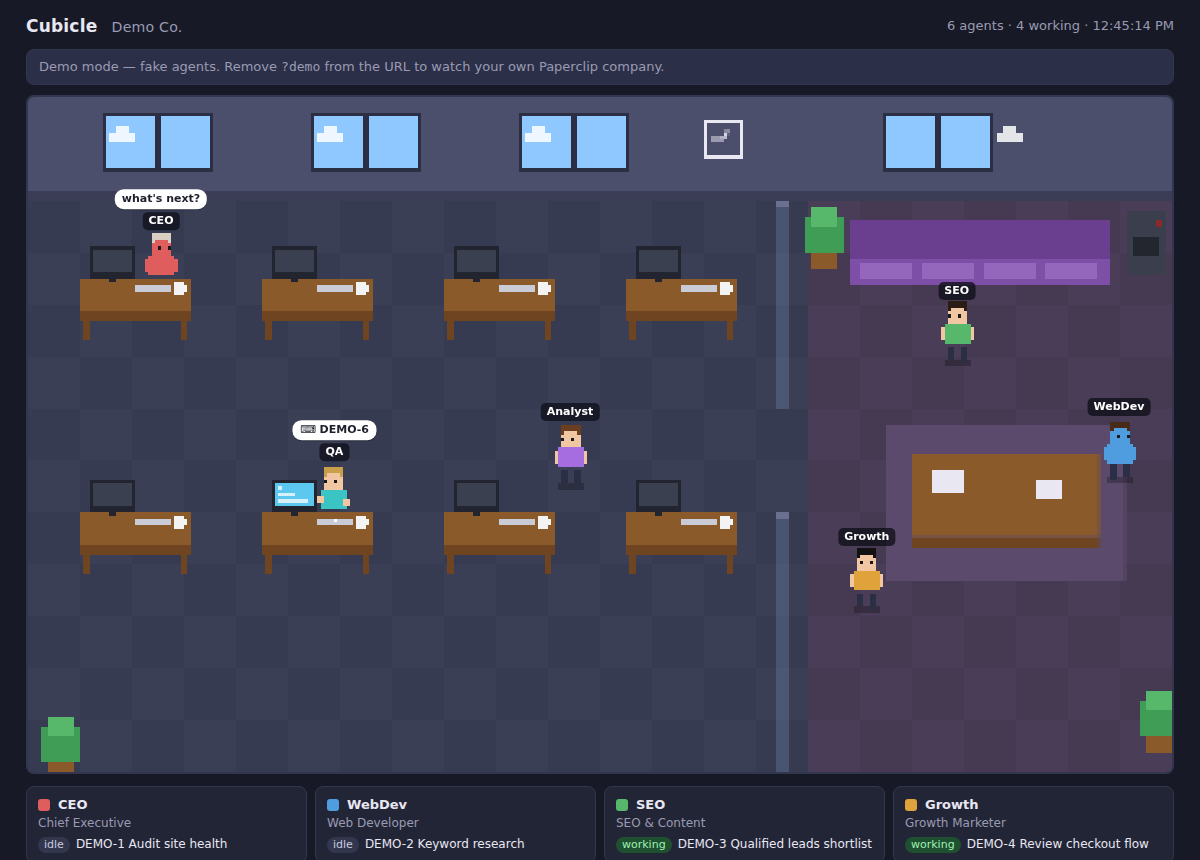
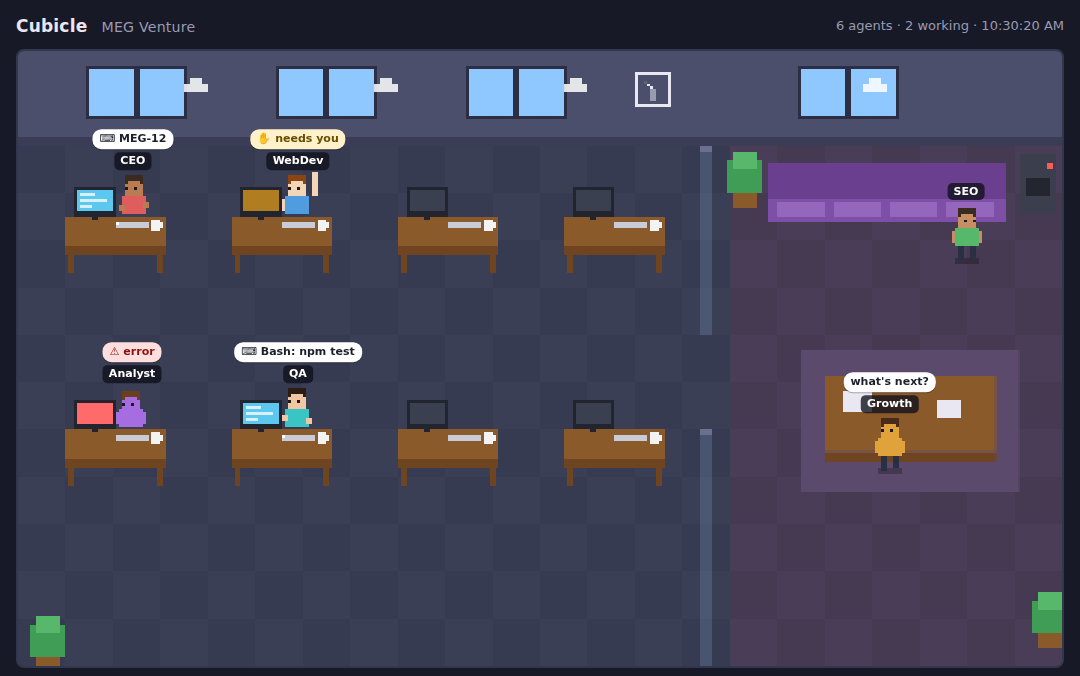
New demo GIF; keep speech bubbles from overlapping
- docs/demo.gif and docs/screenshot.png re-recorded: working, needs-you
  (hand up), done and error all appear within 15 seconds.
- Bubbles are capped at the gap between neighbouring desks, so long task
  names on adjacent desks no longer overlap.
- scripts/record-demo.py: deterministic frame capture (frozen Playwright
  clock + scripted feed) for the GIF and social videos.

Claude-Session: https://claude.ai/code/session_016sPThF3MAmmJcz4KJFJ8Pn

diff --git a/public/index.html b/public/index.html
@@ -472,10 +472,13 @@
 
   function placeLabels(now) {
     const k = cv.clientWidth / CW;
+    // Keep bubbles narrower than the gap between neighbouring desks so they never overlap.
+    const bubMax = Math.max(80, Math.floor(3.3 * T * k - 6)) + 'px';
     for (const s of sprites.values()) {
       s.el.style.left = (s.x * k) + 'px';
       s.el.style.top = ((s.y - 20) * k) + 'px';
       const b = s.el.querySelector('.bub');
+      b.style.maxWidth = bubMax;
       let text = null, cls = '';
       if (s.bubble && now < s.bubbleUntil) { text = s.bubble; cls = s.bubbleClass; }
       else if (s.status === 'error' && s.seated) { text = L.errBubble; cls = 'err'; }

diff --git a/scripts/record-demo.py b/scripts/record-demo.py
@@ -1,0 +1,118 @@
+"""Deterministic frame capture of Cubicle for the demo GIF and the LinkedIn video.
+
+A fake clock drives the page, so every frame is exact and lossless, and a scripted
+feed makes every state (working, needs-you, done, error) appear within 15 seconds.
+"""
+import json, os, sys, datetime
+from playwright.sync_api import sync_playwright
+
+BASE = sys.argv[1]            # http://127.0.0.1:PORT
+OUT = sys.argv[2]             # frames dir
+W, H = int(sys.argv[3]), int(sys.argv[4])
+PROMO = sys.argv[5] == 'promo'
+FPS = 25
+STEP = 1000 // FPS            # 40 ms
+WARMUP = 10.5                 # seconds of virtual time before the first frame
+LENGTH = 15.0                 # seconds recorded
+
+os.makedirs(OUT, exist_ok=True)
+
+ROSTER = [
+    ('ceo', 'CEO', 'Chief Executive'),
+    ('web', 'WebDev', 'Web Developer'),
+    ('seo', 'SEO', 'SEO & Content'),
+    ('growth', 'Growth', 'Growth Marketer'),
+    ('analyst', 'Analyst', 'Functional Analyst'),
+    ('qa', 'QA', 'QA & Testing'),
+]
+
+def state(t):
+    """Agent states at virtual time t (seconds)."""
+    s = {
+        'ceo': ('running', {'id': 'MEG-12', 'title': 'Plan Q4 campaign'}),
+        'web': ('running', 'Edit checkout.php'),
+        'seo': ('running', 'Keyword research: winter'),
+        'growth': ('idle', None),
+        'analyst': ('running', 'Read orders.csv'),
+        'qa': ('idle', None),
+    }
+    err = {}
+    if t >= 12:
+        s['qa'] = ('running', 'Bash: npm test')
+        s['seo'] = ('idle', None)
+    if t >= 16: s['web'] = ('waiting', 'allow Bash: git push?')
+    if t >= 20:
+        s['analyst'] = ('error', None); err['analyst'] = 'API rate limit (429)'
+    if t >= 24:
+        s['web'] = ('running', 'Bash: git push origin main')
+        s['growth'] = ('running', 'Draft newsletter')
+    agents = []
+    for i, (aid, name, role) in enumerate(ROSTER):
+        st, task = s[aid]
+        a = {'id': aid, 'name': name, 'role': role, 'status': st, 'since': i}
+        if task: a['task'] = task
+        if aid in err: a['error'] = err[aid]
+        agents.append(a)
+    return {'company': 'MEG Venture', 'agents': agents}
+
+vt = 0.0  # virtual seconds, updated before each clock step
+
+def on_feed(route):
+    poll_t = (int(vt * 1000) // 4000) * 4
+    route.fulfill(status=200, content_type='application/json', body=json.dumps(state(poll_t)))
+
+PROMO_CSS = """
+  body { font-size: 15px; padding-top: 92px; }
+  .wrap { max-width: none; padding: 0 16px 0; }
+  .wrap { margin: 0; width: 100%; }
+  #promo-top { padding: 0 16px 26px; }
+  #promo-top h2 { margin: 0; font: 700 58px/1.05 system-ui, sans-serif; color: #fff; letter-spacing: -1px; }
+  #promo-top p { margin: 14px 0 0; font: 400 28px/1.3 system-ui, sans-serif; color: #b9bad0; }
+  #promo-bottom { padding: 30px 0 0; display: flex; flex-direction: column; gap: 12px; }
+  #promo-bottom code { font: 600 30px/1.2 "DejaVu Sans Mono", monospace; color: #9ff0b4; background: #0f1119; border: 1px solid #33374d; border-radius: 10px; padding: 12px 16px; align-self: flex-start; }
+  #promo-bottom span { font: 400 22px/1.3 system-ui, sans-serif; color: #9a9bb3; }
+  footer, #banner { display: none !important; }
+  .card { padding: 11px 13px; }
+  .card b { font-size: 16px; } .card .role, .card .st { font-size: 14px; }
+  .bub { font-size: 13px; } .name { font-size: 13px; }
+  h1 { font-size: 20px; } h1 small, #status { font-size: 15px; }
+"""
+
+with sync_playwright() as p:
+    browser = p.chromium.launch()
+    ctx = browser.new_context(viewport={'width': W, 'height': H}, device_scale_factor=1,
+                              timezone_id='Europe/Istanbul', locale='en-US')
+    T0 = datetime.datetime(2026, 9, 28, 10, 30, 0, tzinfo=datetime.timezone(datetime.timedelta(hours=3)))
+    ctx.clock.install(time=T0)
+    ctx.clock.pause_at(T0 + datetime.timedelta(milliseconds=1))  # no natural time flow: frames advance only via run_for
+    page = ctx.new_page()
+    page.route('**/api/feed', on_feed)
+    page.goto(f'{BASE}/?lang=en')
+    page.wait_for_timeout(400)            # real time: config.json + first poll resolve
+    if PROMO:
+        page.add_style_tag(content=PROMO_CSS)
+        page.evaluate("""() => {
+          const top = document.createElement('div'); top.id = 'promo-top';
+          top.innerHTML = '<h2>Cubicle</h2><p>A live pixel-art office for your AI agents.<br>Claude Code, Paperclip, or any JSON feed.</p>';
+          document.body.prepend(top);
+          const bot = document.createElement('div'); bot.id = 'promo-bottom';
+          bot.innerHTML = '<code>npx @caglarutkuguler/cubicle</code><span>Open source (MIT) · zero dependencies · read-only</span>';
+          document.querySelector('.wrap').appendChild(bot);
+          const h1 = document.querySelector('h1'); if (h1 && h1.firstChild) h1.firstChild.textContent = '';
+        }""")
+
+    total = int((WARMUP + LENGTH) * 1000 / STEP)
+    first = int(WARMUP * 1000 / STEP)
+    n = 0
+    for i in range(total):
+        before = vt
+        vt = (i + 1) * STEP / 1000
+        page.clock.run_for(STEP)
+        if int(before * 1000) // 4000 != int(vt * 1000) // 4000:
+            page.wait_for_timeout(80)     # let the poll's fetch resolve
+            page.clock.run_for(0)
+        if i >= first:
+            page.screenshot(path=f'{OUT}/f{n:04d}.png')
+            n += 1
+    print('frames', n, 'last vt', vt)
+    browser.close()

diff --git a/scripts/README.md b/scripts/README.md
@@ -1,0 +1,15 @@
+# Demo recording
+
+`record-demo.py` renders the demo GIF in `docs/` and the square/portrait promo video from a scripted feed, frame by frame under a frozen Playwright clock, so every frame is exact and every state (working, needs-you, done, error) appears within 15 seconds.
+
+```bash
+pip install playwright && python -m playwright install chromium   # once
+node bin/cubicle.js --port 3399 --source examples/feed.json &      # any feed source; /api/feed is intercepted
+python scripts/record-demo.py http://127.0.0.1:3399 /tmp/plain 1080 1080 plain
+python scripts/record-demo.py http://127.0.0.1:3399 /tmp/promo 1080 1350 promo
+
+# README GIF (header + office, 720 px, 12.5 fps)
+ffmpeg -framerate 25 -i /tmp/plain/f%04d.png -vf "crop=1080:676:0:0,fps=12.5,scale=720:-1:flags=lanczos,split[a][b];[a]palettegen=max_colors=96:stats_mode=diff[p];[b][p]paletteuse=dither=none:diff_mode=rectangle" docs/demo.gif
+# Social video (4:5, H.264)
+ffmpeg -framerate 25 -i /tmp/promo/f%04d.png -vf "tpad=stop_mode=clone:stop_duration=1.5,format=yuv420p" -c:v libx264 -crf 16 -tune animation -movflags +faststart cubicle.mp4
+```
